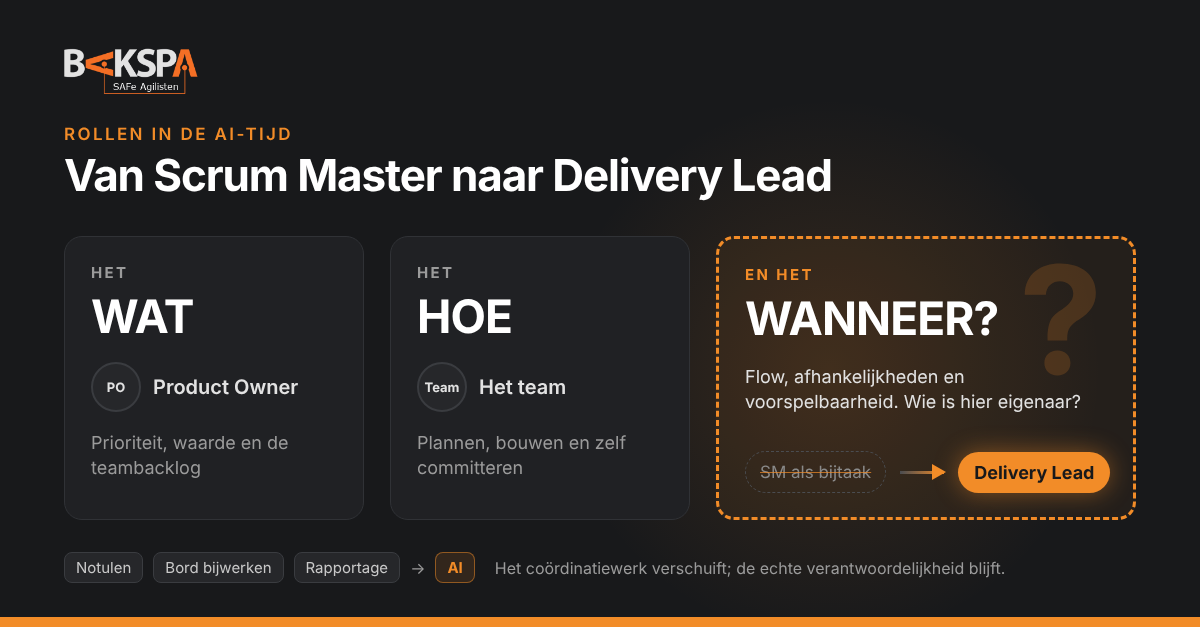
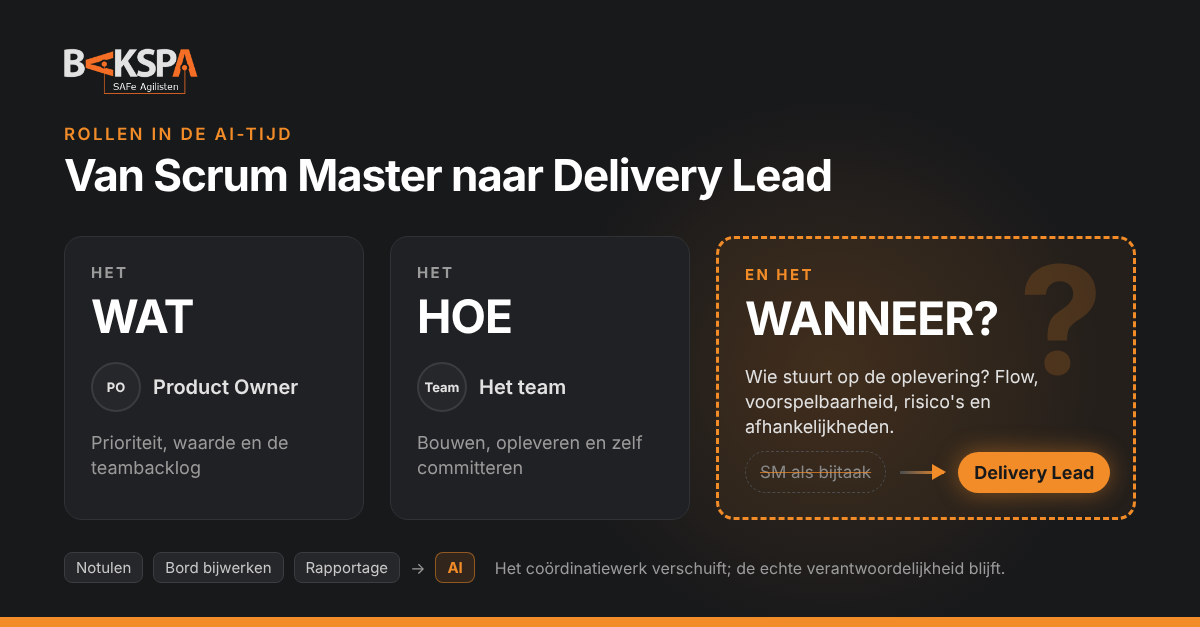
Delivery Lead-blog: sturen op de oplevering, niet verantwoordelijk voor de oplevering zelf
Nieuwe kernsectie in lijn met de SASM-training, titel en standpunt
aangescherpt, vergelijkingstabel en illustratie aangepast; SM-artikel
en homepagekaart gelijkgetrokken.

Claude-Session: https://claude.ai/code/session_01WDc2s7Uy42ELeouiR2SV6f

Changed region(s): [[0.6167, 0.5758, 0.8942, 0.6667], [0.3392, 0.697, 0.5242, 0.7273], [0.6167, 0.6667, 0.74, 0.697]]

diff --git a/illustraties/delivery.html b/illustraties/delivery.html
@@ -45,12 +45,12 @@
   <div class="pillar p2">
     <div class="k">HET</div><div class="big">HOE</div>
     <div class="who"><span class="dot">Team</span> Het team</div>
-    <div class="desc">Plannen, bouwen en zelf committeren</div>
+    <div class="desc">Bouwen, opleveren en zelf committeren</div>
   </div>
   <div class="pillar p3">
     <div class="q">?</div>
     <div class="k">EN HET</div><div class="big">WANNEER?</div>
-    <div class="desc">Flow, afhankelijkheden en voorspelbaarheid. Wie is hier eigenaar?</div>
+    <div class="desc">Wie stuurt op de oplevering? Flow, voorspelbaarheid, risico's en afhankelijkheden.</div>
     <div class="shift"><span class="from">SM als bijtaak</span><span class="arrow"></span><span class="to">Delivery Lead</span></div>
   </div>
 

diff --git a/blog/2026-11-05-scrum-master-delivery-lead.md b/blog/2026-11-05-scrum-master-delivery-lead.md
@@ -1,13 +1,13 @@
 ---
-title: "Van Scrum Master naar Delivery Lead: wie gaat over het WANNEER?"
+title: "Van Scrum Master naar Delivery Lead: wie stuurt op de oplevering?"
 slug: scrum-master-delivery-lead
 date: 2026-11-05T16:00:00
-description: "Bedrijven laten de dedicated Scrum Master los, terwijl de vraag naar Delivery Leads groeit. Wat zegt dat over het gat tussen het wat, het hoe en het wanneer, en wat verandert AI aan de rol?"
+description: "Bedrijven laten de dedicated Scrum Master los, terwijl de vraag naar Delivery Leads groeit. Maar je kunt een Scrum Master niet verantwoordelijk maken voor de oplevering zelf. Wel voor het sturen erop."
 image: /img/blog/scrum-master-delivery-lead.png
 hide_table_of_contents: true
 ---
 
-![Illustratie: het WAT bij de Product Owner, het HOE bij het team, en het WANNEER waarbij de Scrum Master als bijtaak verschuift naar een Delivery Lead](/img/blog/scrum-master-delivery-lead.png)
+![Illustratie: het WAT bij de Product Owner, het HOE bij het team, en het WANNEER: wie stuurt op de oplevering? De Scrum Master als bijtaak verschuift naar een Delivery Lead](/img/blog/scrum-master-delivery-lead.png)
 
 Ik zie twee bewegingen in de markt die op het eerste gezicht niets met elkaar te maken hebben. Bedrijven laten de dedicated Scrum Master los. En tegelijk groeit, zeker onder zelfstandigen, de vraag naar Delivery Leads. Volgens mij zijn het twee kanten van hetzelfde verhaal.
 
@@ -17,7 +17,7 @@ Ik zie twee bewegingen in de markt die op het eerste gezicht niets met elkaar te
 
 De Scrum Master wordt steeds vaker een bijtaak. Een developer in het team "doet het er wel even bij": de daily leiden, de retro organiseren, het bord bijhouden. Een volwaardige rol is het niet meer, en een budgetpost ook niet.
 
-Tegelijk zie ik in opdrachten en aanvragen een ander profiel opduiken: de Delivery Lead. Als je de functieomschrijving naast die van een Scrum Master legt, lijken ze sterk op elkaar: faciliteren, obstakels wegnemen, samenwerking tussen teams, continu verbeteren. Met één groot verschil: een Delivery Lead heeft een expliciete *delivery*-verantwoordelijkheid. Er wordt van je verwacht dat je zorgt dat er geleverd wordt, en dat je weet wanneer.
+Tegelijk zie ik in opdrachten en aanvragen een ander profiel opduiken: de Delivery Lead. Als je de functieomschrijving naast die van een Scrum Master legt, lijken ze sterk op elkaar: faciliteren, obstakels wegnemen, samenwerking tussen teams, continu verbeteren. Met één groot verschil: een Delivery Lead krijgt een expliciete *delivery*-verantwoordelijkheid. Er wordt van je verwacht dat je zorgt dat er geleverd wordt, en dat je weet wanneer. Op dat woord "verantwoordelijk" kom ik nog terug, want daar gaat het vaak mis.
 
 Ik ben niet de enige die dit ziet. Echometer, een leverancier van tools voor Agile teams, schrijft dat [klanten steeds vaker een developer als parttime Scrum Master aanwijzen](https://echometerapp.com/en/obsolete-do-we-really-need-a-scrum-master/), en betwijfelt of dat werkt. Volgens dezelfde bron is de [Agile Delivery Manager al sinds 2023 een trend](https://echometerapp.com/en/what-is-a-agile-delivery-manager/): met de gestegen rente willen veel bedrijven niet langer betalen voor een Scrum Master die vooral teamcoach of "feel-good-manager" is geworden.
 
@@ -41,11 +41,11 @@ Het interessante is dat het WANNEER in SAFe® helemaal niet losjes is. In mijn [
 - **PI-doelen**: het team committeert zich zelf aan zijn doelen voor de komende PI, met een confidence vote. Business Owners kennen er business value aan toe.
 - **Voorspelbaarheid**: aan het eind van de PI wordt gemeten in hoeverre de trein heeft waargemaakt wat hij beloofde. Dat is een van de sterkste middelen om vertrouwen op te bouwen tussen Business Owners en teams.
 - **Releasemoment**: Product Management bepaalt wanneer waarde naar de markt gaat. Releasen kan op elk moment, los van de cadans.
-- **Flow**: op treinniveau is de RTE eindverantwoordelijk voor flow en voorspelbaarheid. Op teamniveau is dat de Scrum Master/Team Coach.
+- **Flow**: op treinniveau stuurt de RTE op flow en voorspelbaarheid. Op teamniveau doet de Scrum Master/Team Coach dat.
 
 </div>
 
-Daar zit volgens mij de kern. Het gat rond het WANNEER ontstaat precies op de plek waar de Scrum Master een bijtaak wordt. De developer die het erbij doet, faciliteert de events, maar heeft geen tijd, mandaat en vaak ook geen zin om flow, afhankelijkheden en voorspelbaarheid te bewaken. Die verantwoordelijkheid verdampt, en dan komt de vraag naar een Delivery Lead.
+Daar zit volgens mij de kern. Het gat rond het WANNEER ontstaat precies op de plek waar de Scrum Master een bijtaak wordt. De developer die het erbij doet, faciliteert de events, maar heeft geen tijd, mandaat en vaak ook geen zin om flow, afhankelijkheden en voorspelbaarheid te bewaken. Niemand stuurt nog op de oplevering, en dan komt de vraag naar een Delivery Lead.
 
 ## Wat AI verandert
 
@@ -55,9 +55,28 @@ Buiten SAFe® klinkt dezelfde vraag, en soms een stuk scherper. Op Scrum.org voo
 
 Daar zit een ongemakkelijke waarheid in. Een groot deel van wat veel Scrum Masters vandaag doen is coördinatie: het bord bijwerken, notulen maken, voortgang verzamelen, rapporteren. Juist dat werk kan AI steeds beter overnemen. Wie zijn rol daarop heeft gebouwd, maakt het bedrijven makkelijk om te zeggen: dat kan een developer er wel bij doen.
 
-Wat overblijft is precies wat de training de gevorderde kant van de rol noemt: knelpunten in de flow vinden en oplossen, een team bouwen dat zelf verbetert en conflicten aankan, en kijken naar de prestaties van de hele trein in plaats van alleen het eigen team. Dat is geen bijtaak. En het is precies wat je nodig hebt om het WANNEER waar te maken.
+Wat overblijft is precies wat de training de gevorderde kant van de rol noemt: knelpunten in de flow vinden en oplossen, een team bouwen dat zelf verbetert en conflicten aankan, en kijken naar de prestaties van de hele trein in plaats van alleen het eigen team. Dat is geen bijtaak. En het is precies wat je nodig hebt om op de oplevering te sturen.
 
 En er komt iets nieuws bij: AI moet in het team zelf ook bestuurd worden. Welke tools gebruiken we, welke data mag erin, wie controleert de output? Scrum.org benadrukt dat [de keuze voor AI-tools een beslissing van het team is](https://www.scrum.org/resources/blog/10-scrum-master-interview-questions-ai-era), niet van één persoon of van het management, en dat de Scrum Master die beslissing faciliteert. Ook dat is uiteindelijk een delivery-vraag: wie bewaakt dat sneller niet slordiger wordt?
+
+## Verantwoordelijk voor de oplevering? Nee. Voor het sturen erop? Ja.
+
+Hier gaat het in veel vacatures en opdrachten mis. "Delivery-verantwoordelijk" wordt gelezen als: jij bent verantwoordelijk voor de oplevering. Maar dat kan een Scrum Master niet zijn, en een Delivery Lead ook niet.
+
+De oplevering zelf, de realisatie, is van het team. Het team plant zelf, committeert zich zelf aan zijn PI-doelen en is zelf verantwoordelijk voor het bouwen, integreren en opleveren van werkende software. Wat er geleverd wordt en wanneer het naar de klant gaat, ligt bij de Product Owner en Product Management. Je kunt niemand verantwoordelijk maken voor iets wat hij niet zelf doet en niet zelf beslist. Wie dat toch doet, maakt van de Scrum Master een projectmanager, of een kop van jut.
+
+Waar de Scrum Master wél verantwoordelijk voor is: **het sturen op de oplevering**. Dat sluit precies aan op wat de AI-Empowered SAFe® Advanced Scrum Master-training de gevorderde kant van de rol noemt:
+
+<div className="checks">
+
+- **Flow verbeteren**: zichtbaar maken waar het werk vastloopt, en die knelpunten samen met het team oplossen.
+- **Voorspelbaarheid**: het team helpen realistische PI-doelen te stellen en die waar te maken, en op tijd signaleren als dat niet lukt.
+- **Risico's en afhankelijkheden**: ze vroeg op tafel krijgen, ROAM'en en waar nodig escaleren naar de RTE.
+- **De prestaties van de trein**: verder kijken dan het eigen team, omdat een oplevering zelden van één team afhangt.
+
+</div>
+
+Dat is sturen, niet leveren. De Scrum Master zorgt ervoor dat het team kan opleveren en dat iedereen weet hoe het ervoor staat. Het team levert op.
 
 ## Scrum Master, Delivery Lead of projectmanager?
 
@@ -66,7 +85,8 @@ En er komt iets nieuws bij: AI moet in het team zelf ook bestuurd worden. Welke 
 |   | Projectmanager | Scrum Master als bijtaak | Delivery Lead |
 |---|---|---|---|
 | Focus | Plan, scope en budget | De events laten plaatsvinden | Voorspelbare levering en flow |
-| Gaat over het wanneer | Ja, bepaalt het | Nee, niemand eigenlijk | Ja, maakt het zichtbaar en waar |
+| Verantwoordelijk voor de oplevering zelf | Ja, namens het team | Onduidelijk | Nee, dat is het team |
+| Stuurt op de oplevering | Ja, door te plannen en op te dragen | Nee, niemand eigenlijk | Ja, door flow en voorspelbaarheid zichtbaar te maken |
 | Wie committeert | De projectmanager, namens het team | Het team, maar niemand bewaakt het | Het team, de Delivery Lead bewaakt het |
 | Stuurt via | Opdrachten en planning | Faciliteren | Transparantie, flow-metrics, afhankelijkheden en coaching |
 | Valkuil | Command & control | Verantwoordelijkheid verdampt | Ongemerkt weer projectmanager worden |
@@ -77,15 +97,15 @@ En er komt iets nieuws bij: AI moet in het team zelf ook bestuurd worden. Welke 
 
 Moeten we de Scrum Master dan Delivery Lead gaan noemen in plaats van Team Coach? Ik denk dat de markt die vraag al aan het beantwoorden is. En ik denk dat dat niet erg is, zolang we twee dingen goed doen.
 
-**Eén: geef de rol een echte A.** Een Delivery Lead is eindverantwoordelijk voor flow en voorspelbaarheid van het team: dat het WANNEER zichtbaar is, dat afhankelijkheden en risico's op tijd op tafel komen, en dat het team waarmaakt wat het belooft, of op tijd laat weten dat dat niet lukt. Dat is geen nieuwe verantwoordelijkheid. Het is wat SAFe® al bij de Scrum Master/Team Coach legt, alleen nu hardop gezegd.
+**Eén: maak de rol verantwoordelijk voor het sturen op de oplevering.** Een Delivery Lead zorgt dat de voortgang en het WANNEER zichtbaar zijn, dat de flow verbetert, dat afhankelijkheden en risico's op tijd op tafel komen, en dat iedereen het weet als een doel niet gehaald gaat worden. Dat is geen nieuwe verantwoordelijkheid. Het is wat de SAFe® Advanced Scrum Master-training al bij de rol legt, alleen nu hardop gezegd.
 
-**Twee: maak er geen projectmanager van.** Het team blijft zelf committeren aan zijn doelen. De PO en Product Management blijven over het wat en het releasemoment gaan. De Delivery Lead neemt die beslissingen niet over, maar zorgt dat ze op tijd en op basis van echte data worden genomen. Wie de rol gebruikt als kop van jut, krijgt binnen een paar maanden een projectmanager met een nieuwe titel terug.
+**Twee: maak de rol niet verantwoordelijk voor de oplevering zelf.** De realisatie blijft van het team, dat zelf committeert aan zijn doelen. De PO en Product Management blijven over het wat en het releasemoment gaan. De Delivery Lead neemt die beslissingen niet over, maar zorgt dat ze op tijd en op basis van echte data worden genomen. Wie de rol toch afrekent op de oplevering, krijgt binnen een paar maanden een projectmanager met een nieuwe titel terug, of een kop van jut.
 
-De naam doet er uiteindelijk minder toe dan de verantwoordelijkheid. Maar als "Delivery Lead" organisaties helpt om weer iemand echt eigenaar te maken van flow en voorspelbaarheid, en de Scrum Master helpt om zijn waarde te laten zien in een tijd waarin AI het coördinatiewerk overneemt, dan is het een naam die ik graag gebruik.
+De naam doet er uiteindelijk minder toe dan de verantwoordelijkheid. Maar als "Delivery Lead" organisaties helpt om weer iemand echt te laten sturen op flow, voorspelbaarheid en oplevering, en de Scrum Master helpt om zijn waarde te laten zien in een tijd waarin AI het coördinatiewerk overneemt, dan is het een naam die ik graag gebruik.
 
-Hoe zie jij dat? Is de Scrum Master in jouw organisatie al een bijtaak geworden, en wie bewaakt daar het WANNEER?
+Hoe zie jij dat? Is de Scrum Master in jouw organisatie al een bijtaak geworden, en wie stuurt daar op de oplevering?
 
-<Cta titel="De rol een echte A geven?">
+<Cta titel="Leren sturen op de oplevering?">
 
 In de AI-Empowered SAFe® Scrum Master- en Advanced Scrum Master-training gaat het precies hierover: flow, voorspelbaarheid, high-performing teams en de rol in het AI-tijdperk. Voor de trein als geheel is er de AI-Empowered Release Train Engineer-training. In-house of privé, met jullie eigen situatie als casus.
 

diff --git a/blog/2026-11-06-scrum-master-rol-nog-nodig.md b/blog/2026-11-06-scrum-master-rol-nog-nodig.md
@@ -82,9 +82,9 @@ Niemand ziet een obstakel dat er niet meer is. Houd bij wat je verbetert, en laa
 
 Niet de Scrum Master die AI vreest, maar die het team helpt het goed te gebruiken. Laat AI je eigen coördinatiewerk doen, en besteed de tijd die vrijkomt aan het werk dat ertoe doet.
 
-### 3. Neem het WANNEER erbij
+### 3. Stuur op de oplevering
 
-Veel organisaties zoeken iemand die zich eigenaar voelt van flow en voorspelbaarheid. Dat past precies bij de rol, en het is ook waarom de vraag naar Delivery Leads groeit. Daarover schreef ik eerder: [Van Scrum Master naar Delivery Lead](/blog/scrum-master-delivery-lead).
+Veel organisaties zoeken iemand die stuurt op flow, voorspelbaarheid en oplevering. Dat past precies bij de rol, en het is ook waarom de vraag naar Delivery Leads groeit. Let wel: je stuurt óp de oplevering, je bent er niet verantwoordelijk voor. De realisatie blijft van het team. Daarover schreef ik eerder: [Van Scrum Master naar Delivery Lead](/blog/scrum-master-delivery-lead).
 
 ### 4. Kijk verder dan je team
 
